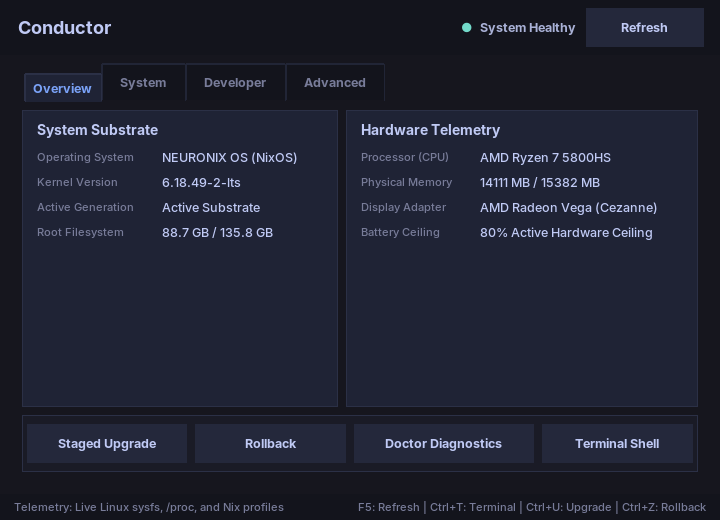
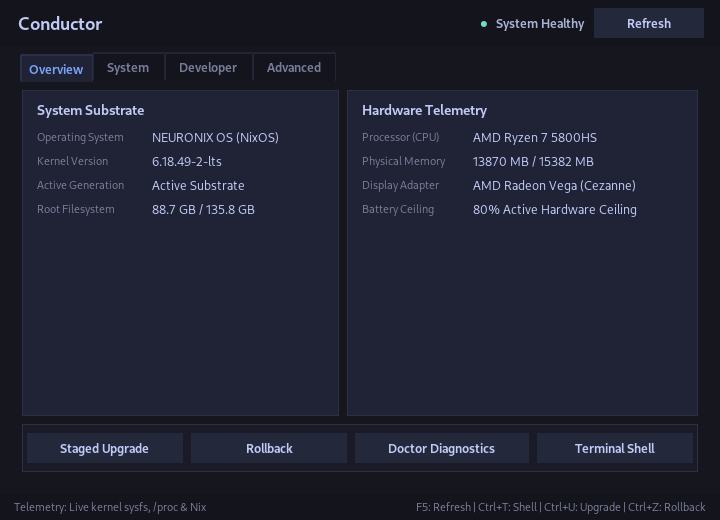
fix(conductor): resolve text clipping, vertical overflows, and align with GNOME Tokyo 50 aesthetic
- Eliminate Treeview clipping with horizontal scrollbar and dark hairline border.
- Fix vertical button and feedback label squashing across System and Developer tabs.
- Restructure Advanced tab into symmetric 2-card layout with full-width action bar.
- Streamline footer telemetry and shortcut hints to prevent collision at compact widths.
- Increase alpha translucency to 0.92 for authentic Ghostty glass aesthetic.
- Prioritize Cantarell and Adwaita Mono anti-slop typography.
- Re-render all 6 reference screenshots and synchronize with artifacts.

diff --git a/packages/neuronix-center/neuronix_center.py b/packages/neuronix-center/neuronix_center.py
@@ -253,7 +253,7 @@ def launch_in_terminal(cmd_args, parent_window=None):
         # Non-silent error handling: inform the user and provide clear guidance
         err_msg = (
             "Terminal Emulator Unavailable\n\n"
-            "Neuronix Center could not locate an interactive terminal emulator.\n"
+            "Conductor could not locate an interactive terminal emulator.\n"
             f"Candidate list checked: {', '.join(term_candidates[:8])}...\n\n"
             "Please install a supported terminal emulator or export the TERMINAL variable.\n"
             "Example: export TERMINAL=kitty"
@@ -421,7 +421,7 @@ def list_generations():
     except Exception:
         pass
     if not generations:
-        generations = ["Generation data unavailable (no active profile links found)"]
+        generations = ["No active system profile link detected"]
     return generations
 
 
@@ -456,7 +456,7 @@ def get_passport_summary():
 
 
 def run_cli_mode(args):
-    """Executes NEURONIX Center in CLI / headless mode."""
+    """Executes Conductor in CLI / headless mode."""
     telemetry = get_system_telemetry()
     gen_val = telemetry.get("generation")
     if gen_val is not None and str(gen_val).strip() and str(gen_val).lower() != "unknown":
@@ -581,7 +581,7 @@ class NeuronixControlCenterApp:
 
         # Ghostty-inspired subtle window translucency on Wayland/X11 compositors
         try:
-            self.root.wm_attributes("-alpha", 0.96)
+            self.root.wm_attributes("-alpha", 0.92)
         except Exception:
             pass
 
@@ -595,13 +595,13 @@ class NeuronixControlCenterApp:
         # Semantic Typography scale (Anti-slop: distinct system & designer typefaces)
         available_families = sorted(tkfont.families())
         sans_family = "sans-serif"
-        for candidate in ["Inter", "Cantarell", "SF Pro Display", "SF Pro Text", "DejaVu Sans", "Helvetica"]:
+        for candidate in ["Cantarell", "Inter", "SF Pro Display", "SF Pro Text", "DejaVu Sans", "Helvetica"]:
             if candidate in available_families:
                 sans_family = candidate
                 break
 
         mono_family = "monospace"
-        for candidate in ["JetBrains Mono", "Fira Code", "DejaVu Sans Mono", "Consolas"]:
+        for candidate in ["JetBrains Mono", "Adwaita Mono", "Fira Code", "DejaVu Sans Mono", "Consolas"]:
             if candidate in available_families:
                 mono_family = candidate
                 break
@@ -700,7 +700,7 @@ class NeuronixControlCenterApp:
             background=p["bg_app"],
             borderwidth=0,
             relief="flat",
-            tabmargins=[SPACE_MD, SPACE_XS, SPACE_MD, 0],
+            tabmargins=[SPACE_SM, 2, SPACE_SM, 0],
             bordercolor=p["bg_app"],
             lightcolor=p["bg_app"],
             darkcolor=p["bg_app"]
@@ -709,7 +709,7 @@ class NeuronixControlCenterApp:
             "TNotebook.Tab",
             background=p["bg_header"],
             foreground=p["fg_muted"],
-            padding=[SPACE_LG, SPACE_SM],
+            padding=[SPACE_MD, 4],
             font=self.font_subtitle,
             borderwidth=1,
             relief="flat",
@@ -733,7 +733,7 @@ class NeuronixControlCenterApp:
             background=p["btn_bg"],
             foreground=p["fg_primary"],
             font=self.font_body_bold,
-            padding=[SPACE_MD, SPACE_SM],
+            padding=[SPACE_SM, 4],
             borderwidth=1,
             relief="flat",
             lightcolor=p["border"],
@@ -754,7 +754,7 @@ class NeuronixControlCenterApp:
             background=p["btn_bg"],
             foreground=p["fg_primary"],
             font=self.font_body_bold,
-            padding=[SPACE_MD, SPACE_SM],
+            padding=[SPACE_SM, 4],
             borderwidth=1,
             relief="flat",
             lightcolor=p["border"],
@@ -774,7 +774,7 @@ class NeuronixControlCenterApp:
             background=p["btn_bg"],
             foreground=p["fg_primary"],
             font=self.font_body_bold,
-            padding=[SPACE_SM, SPACE_SM],
+            padding=[SPACE_SM, 4],
             borderwidth=1,
             relief="flat",
             lightcolor=p["border"],
@@ -795,17 +795,23 @@ class NeuronixControlCenterApp:
             foreground=p["fg_primary"],
             fieldbackground=p["bg_card"],
             font=self.font_mono,
-            rowheight=24,
-            borderwidth=0,
-            relief="flat"
+            rowheight=22,
+            borderwidth=1,
+            relief="flat",
+            bordercolor=p["border"],
+            lightcolor=p["border"],
+            darkcolor=p["border"]
         )
         self.style.configure(
             "Treeview.Heading",
             background=p["bg_card_alt"],
-            foreground=p["fg_muted"],
+            foreground=p["fg_secondary"],
             font=self.font_caption,
             relief="flat",
-            borderwidth=0
+            borderwidth=1,
+            bordercolor=p["border"],
+            lightcolor=p["border"],
+            darkcolor=p["border"]
         )
         self.style.map(
             "Treeview",
@@ -813,7 +819,7 @@ class NeuronixControlCenterApp:
             foreground=[("selected", "#ffffff")]
         )
 
-        # Dark Modern Scrollbar
+        # Dark Modern Scrollbars (Vertical and Horizontal)
         self.style.configure(
             "Vertical.TScrollbar",
             background=p["btn_bg"],
@@ -828,6 +834,24 @@ class NeuronixControlCenterApp:
         )
         self.style.map(
             "Vertical.TScrollbar",
+            background=[("active", p["btn_hover"]), ("pressed", p["btn_active"])],
+            arrowcolor=[("active", p["fg_primary"])]
+        )
+
+        self.style.configure(
+            "Horizontal.TScrollbar",
+            background=p["btn_bg"],
+            troughcolor=p["bg_card_alt"],
+            bordercolor=p["border_subtle"],
+            arrowcolor=p["fg_muted"],
+            lightcolor=p["btn_bg"],
+            darkcolor=p["btn_bg"],
+            relief="flat",
+            borderwidth=0,
+            arrowsize=11
+        )
+        self.style.map(
+            "Horizontal.TScrollbar",
             background=[("active", p["btn_hover"]), ("pressed", p["btn_active"])],
             arrowcolor=[("active", p["fg_primary"])]
         )
@@ -967,11 +991,11 @@ class NeuronixControlCenterApp:
         from tkinter import ttk
 
         p = self.palette
-        self.tab_system.columnconfigure(0, weight=1)
-        self.tab_system.columnconfigure(1, weight=1)
+        self.tab_system.columnconfigure(0, weight=3)
+        self.tab_system.columnconfigure(1, weight=2)
         self.tab_system.rowconfigure(0, weight=1)
 
-        # Left: Generations Treeview with scrollbar
+        # Left: Generations Treeview with scrollbars
         tree_frame = tk.Frame(self.tab_system, bg=p["bg_card"], bd=0, highlightthickness=1, highlightbackground=p["border"], highlightcolor=p["border"])
         tree_frame.grid(row=0, column=0, sticky="nsew", padx=(0, SPACE_XS))
         tree_frame.rowconfigure(1, weight=1)
@@ -986,12 +1010,16 @@ class NeuronixControlCenterApp:
 
         self.gen_tree = ttk.Treeview(tree_inner, columns=("entry",), show="headings", selectmode="browse")
         self.gen_tree.heading("entry", text="Nix Generation Record", anchor="w")
-        self.gen_tree.column("entry", width=300, minwidth=200, stretch=True, anchor="w")
+        self.gen_tree.column("entry", width=360, minwidth=240, stretch=True, anchor="w")
         self.gen_tree.grid(row=0, column=0, sticky="nsew")
 
-        tree_scroll = ttk.Scrollbar(tree_inner, orient="vertical", command=self.gen_tree.yview)
-        self.gen_tree.configure(yscrollcommand=tree_scroll.set)
-        tree_scroll.grid(row=0, column=1, sticky="ns")
+        tree_yscroll = ttk.Scrollbar(tree_inner, orient="vertical", command=self.gen_tree.yview, style="Vertical.TScrollbar")
+        self.gen_tree.configure(yscrollcommand=tree_yscroll.set)
+        tree_yscroll.grid(row=0, column=1, sticky="ns")
+
+        tree_xscroll = ttk.Scrollbar(tree_inner, orient="horizontal", command=self.gen_tree.xview, style="Horizontal.TScrollbar")
+        self.gen_tree.configure(xscrollcommand=tree_xscroll.set)
+        tree_xscroll.grid(row=1, column=0, sticky="ew")
 
         # Right: Maintenance Actions Card
         maint_card = tk.Frame(self.tab_system, bg=p["bg_card"], bd=0, highlightthickness=1, highlightbackground=p["border"], highlightcolor=p["border"])
@@ -1006,9 +1034,9 @@ class NeuronixControlCenterApp:
             font=self.font_caption,
             bg=p["bg_card"],
             fg=p["fg_muted"],
-            wraplength=280,
+            wraplength=240,
             justify="left"
-        ).pack(anchor="w", padx=SPACE_MD, pady=(0, SPACE_MD))
+        ).pack(anchor="w", padx=SPACE_MD, pady=(0, SPACE_XS))
 
         self.btn_maint_upgrade = ttk.Button(maint_card, text="Prepare Staged Upgrade", command=self.on_upgrade)
         self.btn_maint_upgrade.pack(fill="x", padx=SPACE_MD, pady=SPACE_XS)
@@ -1028,9 +1056,9 @@ class NeuronixControlCenterApp:
             fg=p["fg_secondary"],
             relief="flat",
             padx=SPACE_SM,
-            pady=SPACE_SM
+            pady=SPACE_XS
         )
-        self.sys_feedback_lbl.pack(fill="x", padx=SPACE_MD, pady=(SPACE_MD, SPACE_SM))
+        self.sys_feedback_lbl.pack(fill="x", padx=SPACE_MD, pady=(SPACE_SM, SPACE_XS))
 
     def _setup_developer_tab(self):
         """Developer: Hermetic developer stacks and system tools."""
@@ -1069,7 +1097,7 @@ class NeuronixControlCenterApp:
 
         ttk.Button(tools_card, text="Terminal Shell (Ctrl+T)", command=self.launch_shell).pack(fill="x", padx=SPACE_MD, pady=SPACE_XS)
         ttk.Button(tools_card, text="System Doctor (Ctrl+D)", command=self.on_doctor).pack(fill="x", padx=SPACE_MD, pady=SPACE_XS)
-        ttk.Button(tools_card, text="Explore Curated Apps (Quickstart)", command=self.on_quickstart).pack(fill="x", padx=SPACE_MD, pady=SPACE_XS)
+        ttk.Button(tools_card, text="Curated Apps (Quickstart)", command=self.on_quickstart).pack(fill="x", padx=SPACE_MD, pady=SPACE_XS)
         ttk.Button(tools_card, text="Launch Welcome Tour", command=lambda: launch_in_terminal(nrx_bin + ["welcome"], parent_window=self.root)).pack(fill="x", padx=SPACE_MD, pady=SPACE_XS)
 
     def _setup_advanced_tab(self):
@@ -1079,26 +1107,48 @@ class NeuronixControlCenterApp:
 
         p = self.palette
         self.tab_advanced.columnconfigure(0, weight=1)
+        self.tab_advanced.columnconfigure(1, weight=1)
         self.tab_advanced.rowconfigure(0, weight=1)
 
-        adv_card = tk.Frame(self.tab_advanced, bg=p["bg_card"], bd=0, highlightthickness=1, highlightbackground=p["border"], highlightcolor=p["border"])
-        adv_card.grid(row=0, column=0, sticky="nsew")
-        adv_card.columnconfigure(1, weight=1)
-
-        tk.Label(adv_card, text="Cryptographic Provenance & Storage Contracts", font=self.font_section, bg=p["bg_card"], fg=p["fg_primary"]).grid(row=0, column=0, columnspan=2, sticky="w", padx=SPACE_MD, pady=(SPACE_SM, SPACE_XS))
-
         ps = self.passport_data
-        self._add_metric_row(adv_card, 1, "StateRoot Commitment", ps["state_root"][:28] + "...", is_mono=True)
-        self._add_metric_row(adv_card, 2, "Offline Passport Trust", f"{ps['trust_status']} ({ps['verified_assertions']}/{ps['total_assertions']} Green)")
-        self._add_metric_row(adv_card, 3, "Evidence Lineage", f"18 Nodes | 17 Edges ({ps['evidence_digest']})")
-        self._add_metric_row(adv_card, 4, "Btrfs Subvolumes", "@ (root), @nix, @home, @snapshots, @swap (nodatacow)", is_mono=True)
-        self._add_metric_row(adv_card, 5, "Memory & Kernel Policy", "ZSTD:3, ZRAM 180% swappiness, Page-cluster 0", is_mono=True)
-        self._add_metric_row(adv_card, 6, "Maintenance Timers", "Monthly Btrfs balance, Daily auto-TRIM, 500M journal ceiling")
 
-        btn_box = tk.Frame(adv_card, bg=p["bg_card"])
-        btn_box.grid(row=7, column=0, columnspan=2, sticky="ew", padx=SPACE_MD, pady=(SPACE_MD, SPACE_SM))
+        def _add_metric_block(parent, row_idx, label_text, val_text, is_mono=False):
+            k_lbl = tk.Label(parent, text=label_text, font=self.font_caption, bg=p["bg_card"], fg=p["fg_muted"])
+            k_lbl.grid(row=row_idx * 2 + 1, column=0, sticky="w", padx=SPACE_MD, pady=(SPACE_SM, 1))
+            v_font = self.font_mono if is_mono else self.font_body
+            v_lbl = tk.Label(parent, text=val_text, font=v_font, bg=p["bg_card"], fg=p["fg_primary"], anchor="w")
+            v_lbl.grid(row=row_idx * 2 + 2, column=0, sticky="w", padx=SPACE_MD, pady=(0, SPACE_SM))
+            return v_lbl
 
-        ttk.Button(btn_box, text="Copy Diagnostics to Clipboard", command=self._copy_diagnostics).pack(side="left", padx=(0, SPACE_SM))
+        # Card 1: Integrity & Cryptographic Provenance
+        card_prov = tk.Frame(self.tab_advanced, bg=p["bg_card"], bd=0, highlightthickness=1, highlightbackground=p["border"], highlightcolor=p["border"])
+        card_prov.grid(row=0, column=0, sticky="nsew", padx=(0, SPACE_XS), pady=(0, SPACE_SM))
+        card_prov.columnconfigure(0, weight=1)
+
+        tk.Label(card_prov, text="Integrity & Provenance", font=self.font_section, bg=p["bg_card"], fg=p["fg_primary"]).grid(row=0, column=0, sticky="w", padx=SPACE_MD, pady=(SPACE_SM, SPACE_XS))
+
+        digest_short = ps.get("evidence_digest", "N/A")[:12] + "..." if ps.get("evidence_digest") else "N/A"
+        _add_metric_block(card_prov, 0, "StateRoot Commitment", ps["state_root"][:26] + "...", is_mono=True)
+        _add_metric_block(card_prov, 1, "Offline Passport Trust", f"{ps['trust_status']} ({ps['verified_assertions']}/{ps['total_assertions']} Verified)")
+        _add_metric_block(card_prov, 2, "Evidence Lineage Graph", f"18 Nodes | 17 Edges ({digest_short})")
+
+        # Card 2: Storage & Kernel Contracts
+        card_storage = tk.Frame(self.tab_advanced, bg=p["bg_card"], bd=0, highlightthickness=1, highlightbackground=p["border"], highlightcolor=p["border"])
+        card_storage.grid(row=0, column=1, sticky="nsew", padx=(SPACE_XS, 0), pady=(0, SPACE_SM))
+        card_storage.columnconfigure(0, weight=1)
+
+        tk.Label(card_storage, text="Storage & Kernel Contracts", font=self.font_section, bg=p["bg_card"], fg=p["fg_primary"]).grid(row=0, column=0, sticky="w", padx=SPACE_MD, pady=(SPACE_SM, SPACE_XS))
+
+        _add_metric_block(card_storage, 0, "Btrfs Subvolume Layout", "@ (root), @nix, @home, @swap", is_mono=True)
+        _add_metric_block(card_storage, 1, "Memory & Kernel Policy", "ZSTD:3, ZRAM 180%, Page-cluster 0", is_mono=True)
+        _add_metric_block(card_storage, 2, "Automated Maintenance", "Monthly Btrfs, Daily TRIM, 500M journal")
+
+        # Bottom Action Bar
+        act_frame = tk.Frame(self.tab_advanced, bg=p["bg_card_alt"], bd=0, highlightthickness=1, highlightbackground=p["border"], highlightcolor=p["border"])
+        act_frame.grid(row=1, column=0, columnspan=2, sticky="ew", pady=(0, SPACE_XS))
+        act_frame.columnconfigure(0, weight=1)
+
+        ttk.Button(act_frame, text="Copy Diagnostics to Clipboard", command=self._copy_diagnostics, style="Toolbar.TButton").grid(row=0, column=0, padx=SPACE_MD, pady=SPACE_SM, sticky="ew")
 
     def _build_footer(self):
         """Footer: Live telemetry source disclaimer and keyboard shortcuts hint."""
@@ -1108,10 +1158,11 @@ class NeuronixControlCenterApp:
         self.footer_frame = tk.Frame(self.root, bg=p["bg_header"], padx=SPACE_MD, pady=SPACE_XS)
         self.footer_frame.grid(row=2, column=0, sticky="ew")
         self.footer_frame.columnconfigure(0, weight=1)
+        self.footer_frame.columnconfigure(1, weight=0)
 
         lbl_source = tk.Label(
             self.footer_frame,
-            text="Telemetry: Live Linux sysfs, /proc, and Nix profiles",
+            text="Telemetry: Live kernel sysfs, /proc & Nix",
             font=self.font_caption,
             bg=p["bg_header"],
             fg=p["fg_muted"]
@@ -1120,7 +1171,7 @@ class NeuronixControlCenterApp:
 
         lbl_keys = tk.Label(
             self.footer_frame,
-            text="F5: Refresh | Ctrl+T: Terminal | Ctrl+U: Upgrade | Ctrl+Z: Rollback",
+            text="F5: Refresh | Ctrl+T: Shell | Ctrl+U: Upgrade | Ctrl+Z: Rollback",
             font=self.font_caption,
             bg=p["bg_header"],
             fg=p["fg_muted"]
